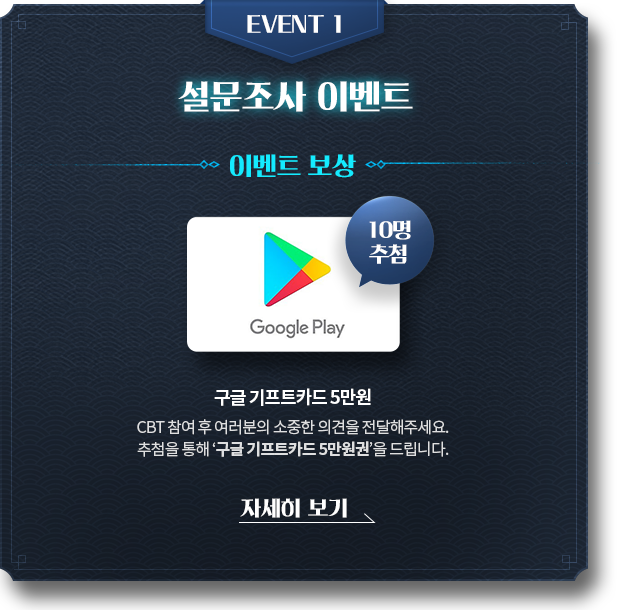
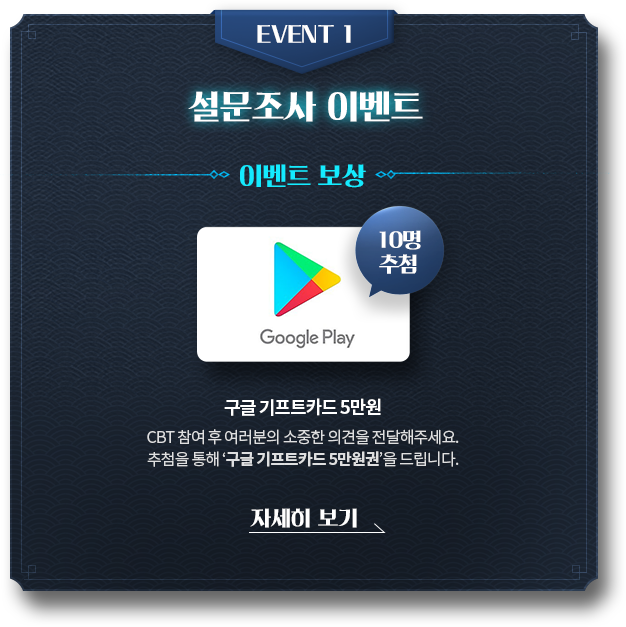
#BRAND

diff --git a/brand/cbt.html b/brand/cbt.html
@@ -135,49 +135,61 @@
         </div> -->
 
         <!-- cbt -->
-        <div data-tab="event" class="content_wrap cbt_wrap">
-            <div class="content_event content_cbtinfo">
-                <div class="title_box animate">
-                    <img src="img/cbt/title1.png" alt="라그나돌 사전예약 이벤트" class="title pc">
-                    <img src="img/cbt/title1_m.png" alt="라그나돌 사전예약 이벤트" class="title mobile">
-                    <p class="period">CBT 기간 : 2023.07.24(월) ~ 07.28(금)까지 단 5일 간!</p>
+        <div data-tab="event" class="content_wrap">
+            <div class="content_cbt content_cbtinfo">
+                <div class="cbt_wrap">
+                    <div class="title_box">
+                        <div class="title_wrap animate">
+                            <img src="img/cbt/title1.png" alt="라그나돌 사전예약 이벤트" class="title pc">
+                            <img src="img/cbt/title1_m.png" alt="라그나돌 사전예약 이벤트" class="title mobile">
+                        </div>
+                        <div class="sub_title animate"><p>CBT 기간 : 2023.07.24(월) ~ 07.28(금)까지 단 5일 간!</p></div>
+                    </div>                    
                 </div>
-                <div class="process_box">
-                    <img src="img/cbt/cbt_sect1_text.png" alt="CBT 참여 방법">
-                    <a href="#" class="btn_download">
-                        <img src="img/cbt/btn_download.png" alt="라그나돌 다운로드">
-                    </a>
-                </div>
-                <div class="notice">
-                    <p>* IOS기기는 CBT에 참여할 수 없습니다.</p>
+                <div class="content_event">
+                    <div class="process_box">
+                        <img src="img/cbt/bg_sect1.png" alt="CBT 참여 방법" class="box pc">
+                        <img src="img/cbt/bg_sect1_m.png" alt="CBT 참여 방법" class="box mobile">
+                        <div class="btn_box">
+                            <a href="#" class="btn_download">
+                                <img src="img/cbt/btn_download.png" alt="라그나돌 다운로드">
+                            </a>
+                        </div>
+                    </div>
+                    <p class="notice">* IOS기기는 CBT에 참여할 수 없습니다.</p>
                 </div>
             </div>
             <!-- 이벤트 -->
-            <div class="content_event content_cbtevent">
-                <div class="title_box animate">
-                    <img src="img/cbt/title2.png" alt="라그나돌 사전예약 이벤트" class="title pc">
-                    <img src="img/cbt/title2_m.png" alt="라그나돌 사전예약 이벤트" class="title mobile">
-                    <p class="period">이벤트 기간 : 2023.07.24(월) ~ 08.04(금)</p>
+            <div class="content_cbt content_cbtevent">
+                <div class="cbt_wrap">
+                    <div class="title_box">
+                        <div class="title_wrap animate">
+                            <img src="img/cbt/title2.png" alt="라그나돌 사전예약 이벤트" class="title pc">
+                            <img src="img/cbt/title2_m.png" alt="라그나돌 사전예약 이벤트" class="title mobile">
+                        </div>
+                        <div class="sub_title animate"><p>사전예약 기간 : 2023.07.12(수) ~ 게임 런칭 전</p></div>
+                    </div>                    
                 </div>
-                <div class="event_box animate">
-                    <div class="btn_event event_1">
-                        <a href="#" title="이벤트 1 바로가기" class="btn_link"><img src="img/cbt/event1.png" alt="커뮤니티 가입인사 남기면 구글 기프트 카드 당첨 기회가!" class="img"></a>
-                        <p class="desc">※ 이벤트 상세 내용은 공식 커뮤니티를 통해 확인할 수 있습니다.</p>
-                    </div>
-                    <div class="btn_event event_2">
-                        <a href="#" title="이벤트 2 바로가기" class="btn_link"><img src="img/cbt/event2.png" alt="공식 커뮤니티를 친구들에게 공유해 주세요!" class="img"></a>
-                        <p class="desc">※ 이벤트 상세 내용은 공식 커뮤니티를 통해 확인할 수 있습니다.</p>
-                    </div>
-                    <div class="btn_event event_3">
-                        <a href="#" title="이벤트 3 바로가기" class="btn_link"><img src="img/cbt/event3.png" alt="커뮤니티 가입인사 남기면 구글 기프트 카드 당첨 기회가!" class="img"></a>
-                        <p class="desc">※ 이벤트 상세 내용은 공식 커뮤니티를 통해 확인할 수 있습니다.</p>
-                    </div>
-                    <div class="btn_event event_4">
-                        <a href="#" title="이벤트 4 바로가기" class="btn_link"><img src="img/cbt/event4.png" alt="공식 커뮤니티를 친구들에게 공유해 주세요!" class="img"></a>
-                        <p class="desc">※ 이벤트 상세 내용은 공식 커뮤니티를 통해 확인할 수 있습니다.</p>
+                <div class="content_event">
+                    <div class="event_box animate">
+                        <div class="btn_event event_1">
+                            <a href="#" title="이벤트 1 바로가기" class="btn_link"><img src="img/cbt/event1.png" alt="커뮤니티 가입인사 남기면 구글 기프트 카드 당첨 기회가!" class="img"></a>
+                            <p class="desc">※ 이벤트 상세 내용은 공식 커뮤니티를 통해 확인할 수 있습니다.</p>
+                        </div>
+                        <div class="btn_event event_2">
+                            <a href="#" title="이벤트 2 바로가기" class="btn_link"><img src="img/cbt/event2.png" alt="공식 커뮤니티를 친구들에게 공유해 주세요!" class="img"></a>
+                            <p class="desc">※ 이벤트 상세 내용은 공식 커뮤니티를 통해 확인할 수 있습니다.</p>
+                        </div>
+                        <div class="btn_event event_3">
+                            <a href="#" title="이벤트 3 바로가기" class="btn_link"><img src="img/cbt/event3.png" alt="커뮤니티 가입인사 남기면 구글 기프트 카드 당첨 기회가!" class="img"></a>
+                            <p class="desc">※ 이벤트 상세 내용은 공식 커뮤니티를 통해 확인할 수 있습니다.</p>
+                        </div>
+                        <div class="btn_event event_4">
+                            <a href="#" title="이벤트 4 바로가기" class="btn_link"><img src="img/cbt/event4.png" alt="공식 커뮤니티를 친구들에게 공유해 주세요!" class="img"></a>
+                            <p class="desc">※ 이벤트 상세 내용은 공식 커뮤니티를 통해 확인할 수 있습니다.</p>
+                        </div>
                     </div>
                 </div>
-
             </div><!-- //이벤트 끝 -->
         </div><!-- //사전예약 -->
 

diff --git a/brand/css/cbt.css b/brand/css/cbt.css
@@ -1,32 +1,40 @@
 /* 이벤트 */
-.cbt_wrap{}
-.cbt_wrap .content_cbtinfo{padding:100px 0;background:url('../img/cbt/bg_sect1.jpg') center no-repeat;background-size:cover}
-.cbt_wrap .title_box{display:block;text-align:center}
-.cbt_wrap .period{margin:20px 0;background:url('../img/cbt/bg_period_shadow.png') center no-repeat;background-size:contain;color:#fff;line-height:57px;font-size:17px}
-.cbt_wrap .process_box{background:url('../img/cbt/bg_sect1_list.png') center no-repeat;background-size:cover;max-width:1230px;margin:auto;text-align:center}
-.cbt_wrap .process_box > img{padding:45px 0 305px;}
-.cbt_wrap .process_box .btn_download{padding: 34px 0 81px}
-.cbt_wrap .process_box a{display:block;text-align:center}
-.cbt_wrap .notice p{color:#a6a8b3;text-align:center;font-size:16px;}
-.cbt_wrap .content_cbtevent{background: url('../img/cbt/bg_sect2.jpg') center no-repeat;background-size:cover}
-.cbt_wrap .content_cbtevent .desc {padding-top:30px}
-.cbt_wrap .content_cbtevent .event_box .btn_event{margin:20px 8px}
+.content_cbt .title_wrap.animate,
+.content_cbt .sub_title.animate{opacity:0;transform:translateY(100px);transition-delay:0.1s}
+.content_cbt .sub_title.animate{transition-delay:0.25s}
+.content_cbt .animate.on{opacity:1;transform:translateY(0)}
+
+.content_cbt{padding:70px 0 80px;position:relative}
+.content_cbt .content_event{background:transparent;padding:20px 0 0;text-align:center}
+.content_cbt .cbt_wrap .title_box{text-align:center}
+.content_cbt .cbt_wrap .title_box .title{display:block;margin:0 auto;max-width:100%}
+.content_cbt .cbt_wrap .title_box .sub_title{display:inline-flex;align-items:center;justify-content:center;min-width:404px;min-height:47px;background:url("../img/cbt/title_shadow.png") no-repeat center center;background-size:cover;margin-top:12px}
+.content_cbt .cbt_wrap .title_box .sub_title p{padding:0 20px 6px 0;font-size:16px;color:#fff;letter-spacing:-1px}
+
+.content_cbtinfo{background:url('../img/cbt/bg_sect1.jpg') center no-repeat;background-size:cover}
+.content_cbtinfo .process_box{display:block;position:relative;display:inline-block}
+.content_cbtinfo .process_box .box{width:1180px}
+.content_cbtinfo .process_box .btn_box{position:absolute;bottom:80px;left:0;text-align:center;width:100%}
+.content_cbtinfo .process_box .btn_box a{display:inline-block}
+.content_cbtinfo .notice{color:#a6a8b3;text-align:center;font-size:14px}
+
+.content_cbtevent{background: url('../img/cbt/bg_sect2.jpg') center no-repeat;background-size:cover}
+
 
 /* 반응형 */
+@media screen and (max-width: 1400px){
+    .content_cbtinfo .process_box .box{width:calc(100% - 200px)}
+    .content_cbtinfo .process_box .btn_box{bottom:11%}
+}
+
 @media screen and (max-width: 1280px){
-    .content_cbtevent .event_box{padding:0}
-    .content_cbtevent .event_box .btn_event{width:75%}
+    .content_cbtinfo .process_box .btn_box a{display:block;margin:0 auto;width:28%}
+    .content_cbtinfo .process_box .btn_box a img{width:100%}
 }
 
 @media screen and (max-width: 780px){
-    .cbt_wrap .process_box{background-image: url('../img/cbt/bg_sect1_list_m.png')}
-    .cbt_wrap .process_box > img{padding: 50px 0 324px}
-    .cbt_wrap .process_box .btn_download{padding: 40px 0 101px}
-}
-
-@media screen and (max-width: 500px){
-    .cbt_wrap .period {line-height: 43px;font-size: 13px}
-    .cbt_wrap .process_box > img{padding:26px 0 155px;width:50%}
-    .cbt_wrap .process_box .btn_download{padding:48px 0 50px}
-    .cbt_wrap .process_box .btn_download img {width: 55%;}
+    .content_cbt .cbt_wrap .title_box .sub_title{margin:0}
+    .content_cbtinfo .process_box .box{width:100%}
+    .content_cbtinfo .process_box .btn_box{bottom:15%}
+    .content_cbtinfo .process_box .btn_box a{width:45%}
 }

diff --git a/brand/css/layout.css b/brand/css/layout.css
@@ -207,6 +207,7 @@ body.popup{position:absolute;;overflow:hidden}
 #twitter_menu .btn_box{padding:10px}
 #twitter_menu .btn_twitter{display:block;width:243px;height:52px;background:url("../img/main/btn_twitter.png") no-repeat center center}
 #twitter_menu .mobile_box{display:none}
+#twitter_menu .twitter-timeline{color:#fff;font-size:0}
 
 /* 예약 */
 .content_reserve{padding:70px 0 0 0;height:2300px;background:url("../img/reserve/bg.jpg") no-repeat top center;position:relative}
@@ -248,7 +249,7 @@ body.popup{position:absolute;;overflow:hidden}
 .content_reserve .reserve_desc p{line-height:1.6em;font-size:1.4em;color:#a6a8b3}
 .content_reserve .reserve_desc p b{color:#d0d2db;font-weight:700}
 .content_reserve .benefit_wrap{text-align:center;position:absolute;bottom:0;left:0;width:100%}
-.content_reserve .benefit_wrap .benefit_box{padding:90px 0;position:relative}
+.content_reserve .benefit_wrap .benefit_box{padding:60px 0;position:relative}
 /* .content_reserve .benefit_wrap .benefit_box::after{content:"";position:absolute;top:0;left:50%;transform:translate(-50%);width:1200px;height:1px;background:#fff;opacity:0.1} */
 .content_reserve .benefit_wrap .icon_box{height:140px}
 .content_reserve .benefit_wrap .icon_box .icon{display:inline-block;border-radius:30px;box-shadow:15px 15px 20px 0 rgba(0,0,0,0.25)}
@@ -411,7 +412,7 @@ body.popup{position:absolute;;overflow:hidden}
 .content_media .media_slide_thumb{padding:2px 0;overflow:hidden}
 .content_media .media_slide_thumb .btn_thumb{display:block;position:relative}
 /* .content_media .media_slide_thumb .btn_thumb::before{display:block;content:"";position:absolute;left:0;top:0;width:100%;height:100%;border-radius:10px;box-shadow:5px 5px 20px rgba(0,0,0,0.5)} */
-.content_media .media_slide_thumb .btn_thumb::before{display:block;content:"";position:absolute;left:0;top:0;width:100%;height:100%;border-radius:20px;background:rgba(0,0,0,0.5)}
+.content_media .media_slide_thumb .btn_thumb::before{display:block;content:"";position:absolute;left:0;top:0;width:100%;height:100%;background:rgba(0,0,0,0.5)}
 .content_media .media_slide_thumb .btn_thumb .thumb{display:block;position:relative;width:100%;opacity:0.3;z-index:2}
 .content_media .media_slide_thumb .btn_thumb::after{display:block;content:"";position:absolute;left:0;top:-1px;right:0;bottom:0;background:url("../img/media/bg_thumb_frame.png") no-repeat center center;background-size:100% 100%;z-index:3;opacity:0}
 .content_media .media_slide_thumb .btn_thumb.active .thumb{opacity:1}
@@ -420,7 +421,8 @@ body.popup{position:absolute;;overflow:hidden}
 
 @media screen and (max-width:1921px) {
     /* 이벤트 */
-    .content_event .event_box .btn_event{max-width:45%}
+    .content_event .event_box{padding:0 240px}
+    .content_event .event_box .btn_event{max-width:40%}
 
     /* 미디어 */
     .content_media .media_wrap{padding:0 240px}
@@ -551,7 +553,8 @@ body.popup{position:absolute;;overflow:hidden}
     .content_event .event_box{display:block}
     .content_event .event_box .btn_event{margin-top:30px;width:100%;max-width:100%}
     .content_event .event_box .btn_event:first-child{margin-top:0}
-    .content_event .event_box .btn_event .img{max-width:107%;margin-left:0}
+    /* .content_event .event_box .btn_event .img{max-width:107%;margin-left:0} */
+    .content_event .event_box .btn_event .img{margin:0;max-width:none;width:99%;padding-left:5%}
 
     .content_story{padding:100px 0 200px 0}
     .content_story .bg{background:url("../img/story/bg_m.jpg") no-repeat center center;background-size:cover}

diff --git a/brand/js/brand.js b/brand/js/brand.js
@@ -48,41 +48,49 @@ $(function() {
 
     //스토어 사전등록 혜택 확인 팝업
     $(".content_reserve .benefit_wrap .btn_benefit").on("click", function() {
+        $("body").addClass("popup");
         $("#popup_download").fadeToggle(200);
         return false;
     });
     $("#popup_download .btn_close").on("click", function() {
         $("#popup_download").fadeOut(200);
+        $("body").removeClass("popup");
         return false;
     });
     
     //개인정보 팝업
     $("#btn_detail_01").on("click", function() {
+        $("body").addClass("popup");
         $("#popup_reserve_01").fadeToggle(200);
         return false;
     });
     $("#popup_reserve_01 .btn_close").on("click", function() {
         $("#popup_reserve_01").fadeOut(200);
+        $("body").removeClass("popup");
         return false;
     });
 
     //알림수신 팝업
     $("#btn_detail_02").on("click", function() {
+        $("body").addClass("popup");
         $("#popup_reserve_02").fadeToggle(200);
         return false;
     });
     $("#popup_reserve_02 .btn_close").on("click", function() {
         $("#popup_reserve_02").fadeOut(200);
+        $("body").removeClass("popup");
         return false;
     });
 
     //유의사항 팝업
     $(".content_reserve .reserve_form .btn_reserve_noti").on("click", function() {
+        $("body").addClass("popup");
         $("#popup_reserve_03").fadeToggle(200);
         return false;
     });
     $("#popup_reserve_03 .btn_close").on("click", function() {
         $("#popup_reserve_03").fadeOut(200);
+        $("body").removeClass("popup");
         return false;
     });
 
